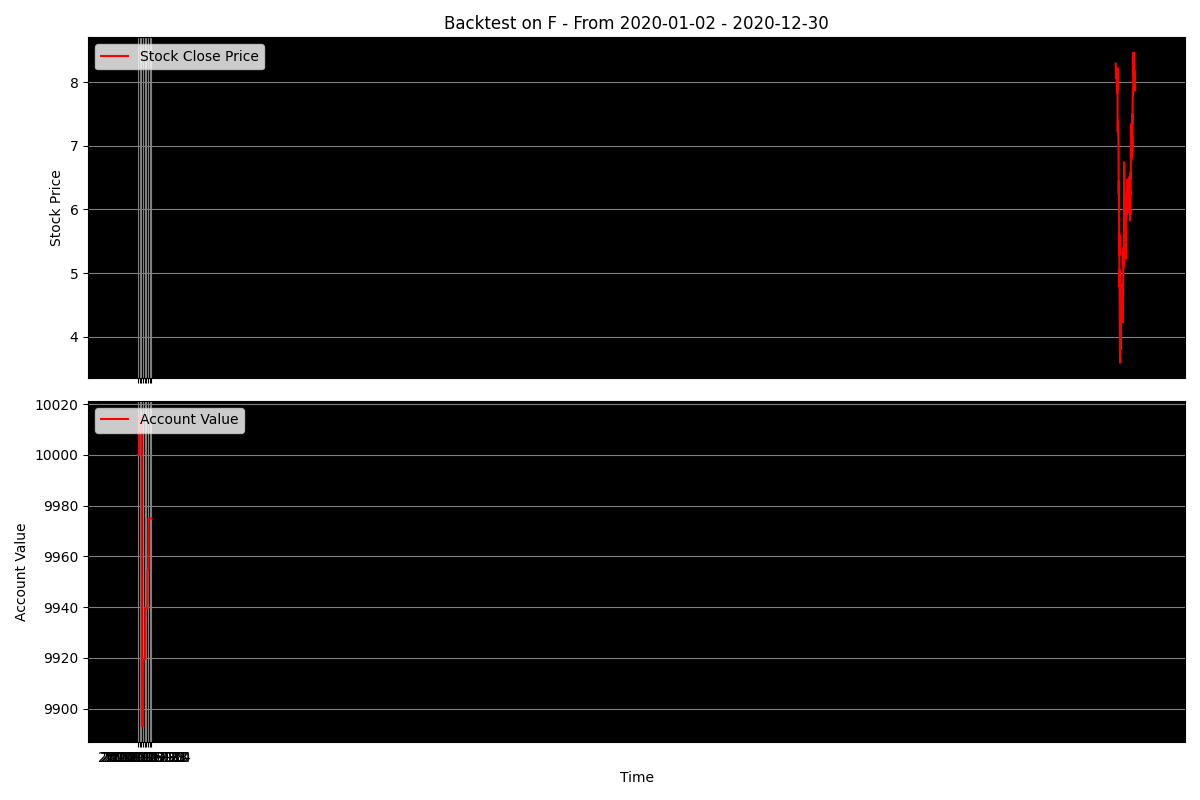
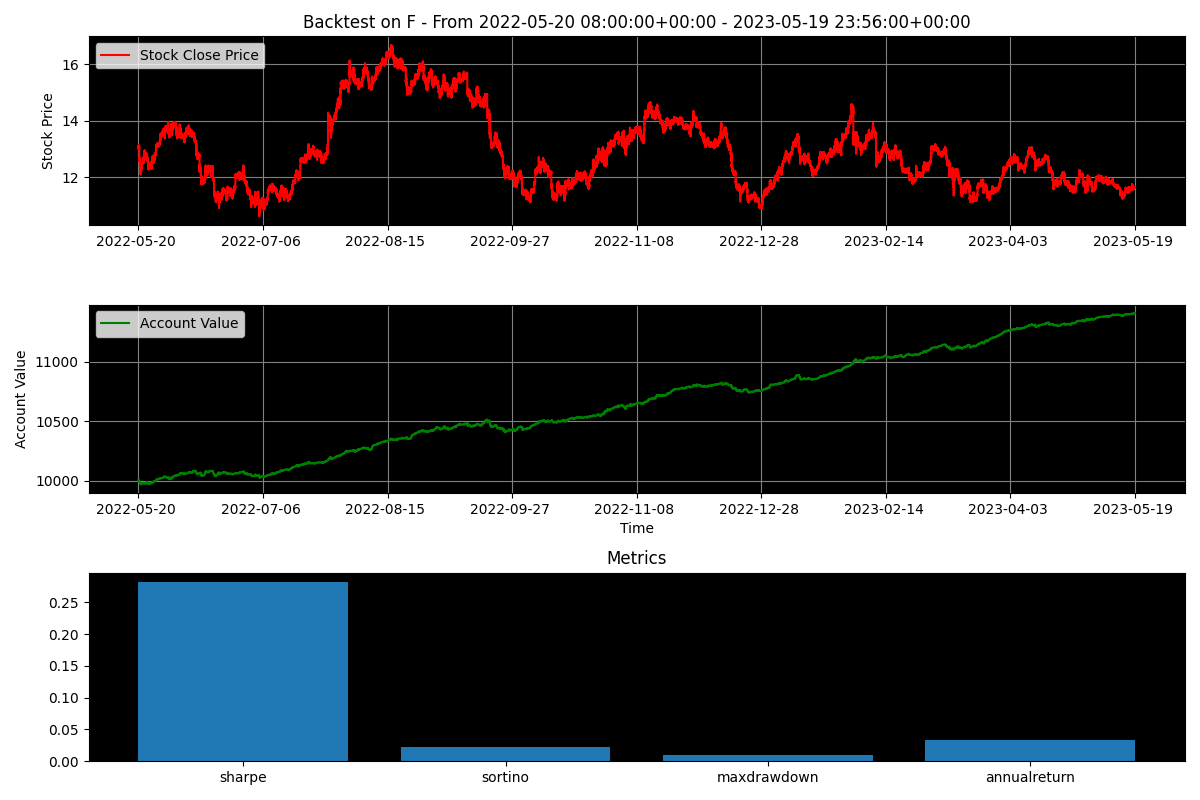
graph class

diff --git a/tests/riley_test.py b/tests/riley_test.py
@@ -11,13 +11,13 @@ riley = ic.Riley()
 riley.set_cash(10000)
 
 # Fetch data chosen source
-data = ic.source.csv('SampleData/F.csv')
+# data = ic.source.csv('SampleData/F.csv')
 
 # Alternatively, pull data from Yahoo Finance
 # Also, you can specify the start and end dates
 
-# data = bt.source.PandasDF(data.data)
-# data = bt.source.yFinance('F', '2020-01-01', '2020-12-31')
+# data = ic.source.PandasDF(data.data)
+data = ic.source.yFinance('F', '2020-01-01', '2020-12-31')
 
 # Add data to the backtest engine
 riley.add_data(data)
@@ -39,13 +39,13 @@ riley.set_stake_quantity(50)
 riley.add_metric(ic.metrics.SharpeRatio, 'sharpe')
 riley.add_metric(ic.metrics.SortinoRatio, 'sortino')
 riley.add_metric(ic.metrics.MaxDrawdown, 'maxdrawdown')
-riley.add_metric(ic.metrics.CalmarRatio, 'calmar')
+# riley.add_metric(ic.metrics.CalmarRatio, 'calmar')
 riley.add_metric(ic.metrics.AnnualizedReturn, 'annualreturn')
-riley.add_metric(ic.metrics.TotalReturn, 'totalreturn')
+# riley.add_metric(ic.metrics.TotalReturn, 'totalreturn')
 
 # Run the backtest
 riley.run()
 
 # Generate graphical representation of the backtest results
-riley.plot()
-# riley.plot_bar()
+# riley.plot(True)
+riley.plot_bar(True, 'Backtestbar.png')

diff --git a/Icarus/graphs/graph.py b/Icarus/graphs/graph.py
@@ -63,15 +63,17 @@ class Graph:
         
         data = pd.DataFrame(self.metrics, index=['  '+self.ticker+ '  '])
              
-        ax3.table(cellText=np.round(data.values,2), colLabels=data.columns,
-                  rowLabels=data.index,rowLoc='center',cellLoc='center',loc='top',
-                  colWidths=[0.25]*len(data.columns))
+        # ax3.table(cellText=np.round(data.values,2), colLabels=data.columns,
+        #           rowLabels=data.index,rowLoc='center',cellLoc='center',loc='top',
+        #           colWidths=[0.25]*len(data.columns))
             
-        # ax3.table(cellText=data.values, colLabels=data.columns, loc='center')
-        ax3.axis('off')
-        ax3.axis('tight')
+        # # ax3.table(cellText=data.values, colLabels=data.columns, loc='center')
+        # ax3.axis('off')
+        ax3.set_title('Metrics')
         ax3.set_facecolor('black')
-        ax3.grid(color='grey', linestyle='solid')
+        # ax3.grid(color='grey', linestyle='solid')
+        ax3.bar(data.columns, data.values[0])
+        
         
         
         fig.tight_layout()

diff --git a/Icarus/riley.py b/Icarus/riley.py
@@ -181,7 +181,7 @@ class Riley:
             save (bool): Whether or not to save the plot.
             name (str): The name of the plot.
         """
-        plot = Graph(self.data, self.data_length, self.ticker, self.pct_change, self.account_value_history)
+        plot = Graph(self.data, self.data_length, self.ticker, self.pct_change, self.account_value_history, self.metrics)
         plot.plot_bar(save=save, name=name)
         return
         

diff --git a/README.md b/README.md
@@ -59,8 +59,8 @@ data = ic.source.csv('HistoricalData/F.csv')
 # Alternatively, pull data from Yahoo Finance
 # Also, you can specify the start and end dates
 
-# data = bt.source.PandasDF(data.data)
-# data = bt.source.yFinance('F', '2020-01-01', '2020-12-31')
+# data = ic.source.PandasDF(data.data)
+# data = ic.source.yFinance('F', '2020-01-01', '2020-12-31')
 
 # Add data to the backtest engine
 riley.add_data(data)
